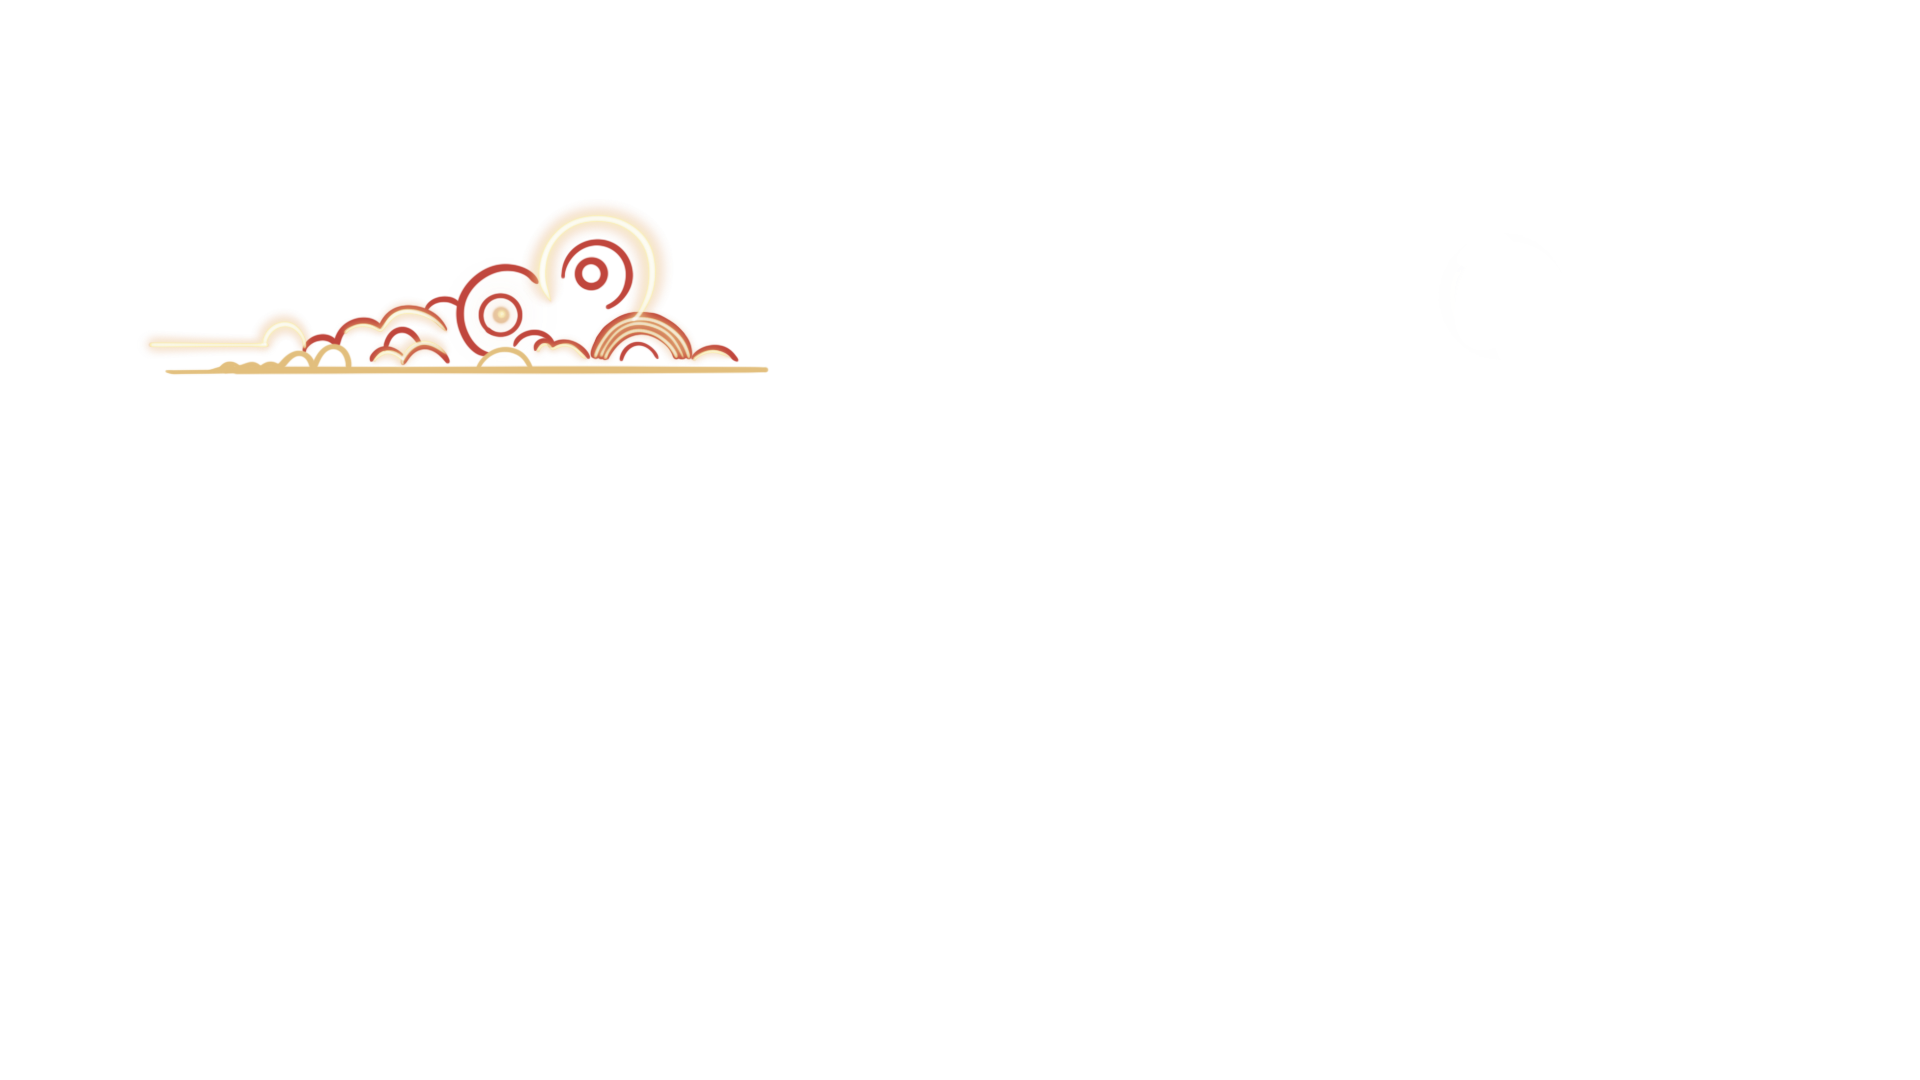
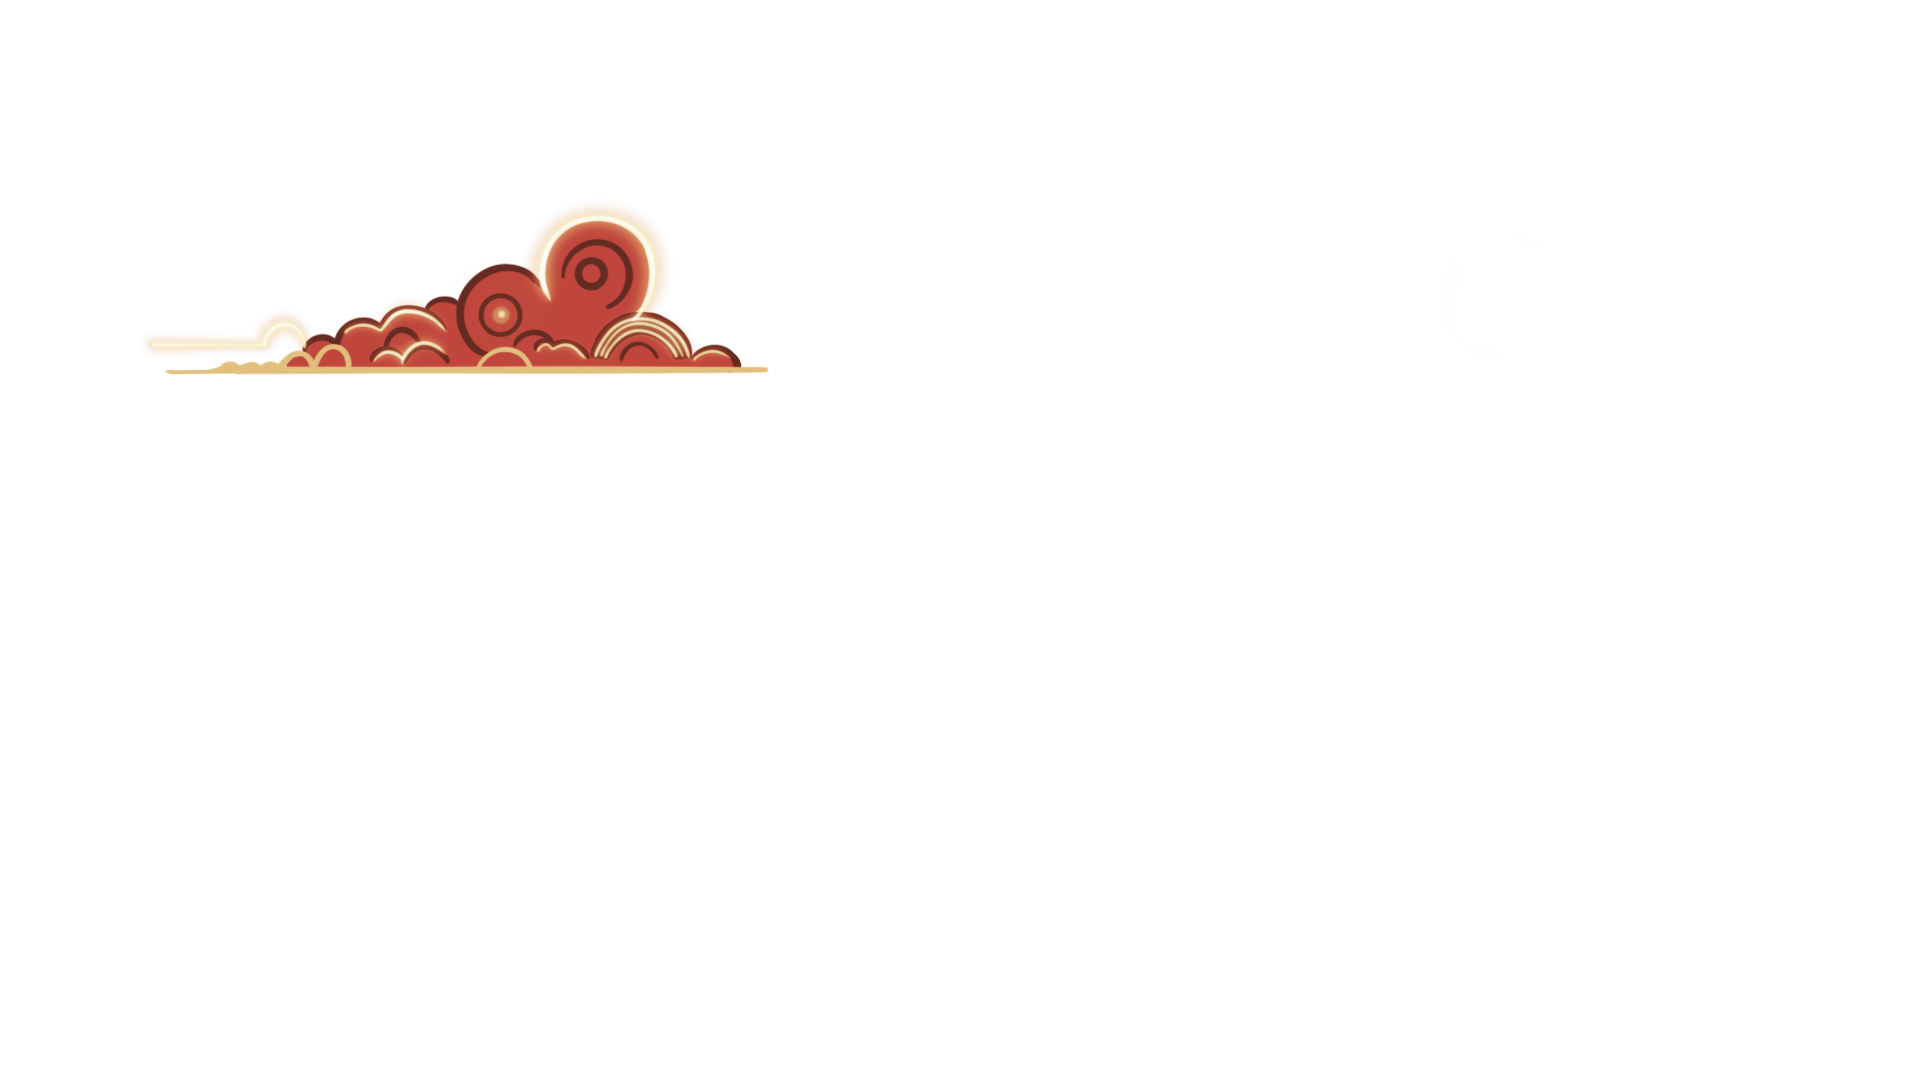
Changed

Changed region(s): [[0.1562, 0.1833, 0.4062, 0.3667]]

diff --git a/script.js b/script.js
@@ -1,0 +1,79 @@
+import * as THREE from 'three';
+
+const fragment = `
+#define M_PI 3.14159265358979323846
+varying vec2 vUv;
+uniform float uTime;
+uniform sampler2D image;
+float cubicPulse(float c, float w, float x) {
+    x = abs(x - c);
+    if(x > w)
+        return 0.0;
+    x /= w;
+    return 1.0 - x * x * (3.0 - 2.0 * x);
+}
+
+void main() {
+    vec4 texture = texture2D(image, vUv);
+    texture.rgb *= clamp(cubicPulse(uTime, 0.2, length(vUv - vec2(0.5, 0.9))) * 2.,1.,1.6);
+    texture.rgb *= clamp(cubicPulse(step(.5, uTime) * (uTime - .65), 0.2, length(vUv - vec2(0.5, 0.))) * 2.,1.,2.);
+    // texture.rgb *= clamp(cubicPulse(uTime , 0.04, length(vUv - vec2(0.5, 0.5))) * 2.,1.,2.);
+    // texture.rgb *= clamp(cubicPulse(uTime , 0.07, length(vUv - vec2(0.5, 0.5))) * 2.,1.,2.);
+    gl_FragColor = texture;
+}
+`
+
+const vertex = `
+varying vec2 vUv;
+void main(){
+    vUv = uv;
+    gl_Position = projectionMatrix * modelViewMatrix * vec4(position,1.);
+}
+`
+const container = document.querySelector('.logo-cont')
+
+const width = 350, height = 350;
+const renderer = new THREE.WebGLRenderer({ antialias: true, canvas: document.getElementById('logo')});
+const scene = new THREE.Scene();
+const camera = new THREE.PerspectiveCamera(29, width / height, 0.1, 10000);
+
+renderer.setSize(width, height);
+renderer.setClearColor(0x0f0c0c);   
+// document.querySelector('#container').appendChild(renderer.domElement);
+
+const texture = new THREE.TextureLoader().load('./logo.png');
+texture.colorSpace = THREE.LinearSRGBColorSpace
+
+const uniforms = {
+    'uProgress': 0.0,
+    'uTime': { type: 'f', value: 0.0 },
+    'uResolution': new THREE.Vector2(width, height),
+    'image': { type: 't', value: texture }
+}
+
+camera.position.set(0, 0, 1000);
+const geometry = new THREE.PlaneGeometry(536, 536, 1, 1);
+const material = new THREE.ShaderMaterial({
+    fragmentShader: fragment,
+    vertexShader: vertex,
+    transparent: 1,
+    uniforms,
+});
+
+const mesh = new THREE.Mesh(geometry, material);
+scene.add(mesh);
+let time = 0;
+
+function renderLoop() {
+    time += 0.0025;
+    time %= 1.85;
+    material.uniforms.uTime.value = time;
+    renderer.render(scene, camera);
+}
+renderer.setAnimationLoop(renderLoop);
+
+container.addEventListener('resize', function () {
+    camera.aspect = container.innerWidth / container.innerHeight;
+    camera.updateProjectionMatrix();
+    renderer.setSize(container.innerWidth, container.innerHeight);
+})

diff --git a/index.html b/index.html
@@ -11,11 +11,12 @@
             margin: 0;
             padding: 0;
             overflow: hidden;
-            background-color: black;
-        }
-
-        /* MQ */
-        .full {
+            background-color: #0f0c0c;
+            }
+            
+            /* MQ */
+            .full {
+            background-color: #0f0c0c;
             height: 100vh;
             width: 100vw;
             overflow: hidden;
@@ -109,11 +110,36 @@
             transform: perspective(200px) translateZ(100px);
             animation: popin 3.4s ease-out forwards;
         }
+
+        #logo {
+            padding-left: 30px;
+            top: 40px;
+            display: block;
+        }
+
+        .halo {
+            width: 100vw;
+        }
     </style>
+    <script type="importmap">
+        {
+          "imports": {
+            "three": "https://cdn.jsdelivr.net/npm/three@0.164.1/build/three.module.js"
+          }
+        }
+      </script>
+    <script src="script.js" type="module"></script>
 </head>
 
 <body class="relative">
     <div class="full">
+        <div class="center">
+            <!-- <img src="img/logo2.png" alt="" class="sprite logo" /> -->
+            <canvas id="logo" class="sprite"></canvas>
+            <img src="img/aircldL.png" alt="" class="sprite logo" />
+            <img src="img/aircldR.png" alt="" class="sprite logo" />
+            <img src="img/halo.png" alt="" class="sprite logo" />
+        </div>
         <img src="img/water.png" alt="" class="background" />
         <img src="img/starsL.png" alt="" class="background" />
         <img src="img/starsR.png" alt="" class="background" />
@@ -123,14 +149,8 @@
         <img src="img/redR.png" alt="" class="background cloud-right red" />
         <img src="img/landL.png" alt="" class="background land" />
         <img src="img/landR.png" alt="" class="background land" />
-        <div class="center">
-            <img src="img/aircldL.png" alt="" class="sprite logo" />
-            <img src="img/aircldR.png" alt="" class="sprite logo" />
-            <img src="img/halo.png" alt="" class="sprite logo" />
-            <img src="img/logo.png" alt="" class="sprite logo" />
-            <img src="img/logocld.png" alt="" class="sprite logo" />
-        </div>
     </div>
+    <div id="container"></div>
 </body>
 
 </html>

diff --git a/some.css b/some.css
@@ -2,11 +2,11 @@ body {
     margin: 0;
     padding: 0;
     overflow: hidden;
-    background-color: black;
-}
-
-/* MQ */
-.full {
+    }
+    
+    /* MQ */
+    .full {
+    background-color: #0f0c0c;
     height: 100vh;
     width: 100vw;
     overflow: hidden;
